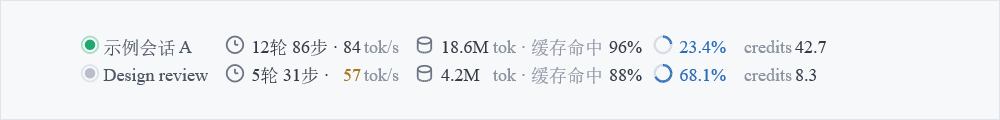
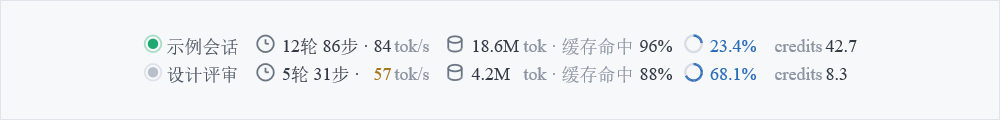
Limit bar titles to six characters

Changed region(s): [[0.062, 0.275, 0.868, 0.475], [0.062, 0.525, 0.868, 0.7]]

diff --git a/dcomp/App.cs b/dcomp/App.cs
@@ -703,6 +703,14 @@ static class App
         return F0(d);
     }
 
+    // 标题最多 6 个字符：超出时前 5 字加省略号，避免窄条压到状态栏右侧控件。
+    static string ShortTitle(string s)
+    {
+        if (string.IsNullOrEmpty(s)) return "";
+        if (s.Length <= 6) return s;
+        return s.Substring(0, 5) + "…";
+    }
+
     static Dictionary<string, string[]> BuildCells(Dictionary<string, object> s)
     {
         var d = new Dictionary<string, string[]>();
@@ -729,7 +737,7 @@ static class App
         }
 
         d["dot"] = new[] { "", HexStr(isBusy ? C_OK : C_IDLE) };
-        d["title"] = new[] { Convert.ToString(title) ?? "", HexStr(C_TITLE) };
+        d["title"] = new[] { ShortTitle(Convert.ToString(title) ?? ""), HexStr(C_TITLE) };
         d["clock"] = new[] { "", HexStr(C_ICON) };
         d["turns"] = new[] { (turns == null ? "—" : Convert.ToString(turns)) + "轮 " +
                              (steps == null ? "—" : Convert.ToString(steps)) + "步 ·", HexStr(C_FG) };

diff --git a/README.md b/README.md
@@ -72,7 +72,7 @@ qoder_monitor.py --emit ──每秒原子写──▶ bar_state.json
 
 - 一条无底板的透明窄条，最多两个会话行；每行：状态点、标题、轮数/步数、tok/s、总 tokens 与缓存命中、上下文环、credits。
 - 取最近 30 分钟内有写入的会话，按最后修改时间由新到旧最多显示两行；每行的数字是该会话自己的整场累计。
-- 状态点绿色表示会话忙或文件 25 秒内有写入，灰色为空闲；标题超过 150 DIP 截断，两行共用列宽。
+- 状态点绿色表示会话忙或文件 25 秒内有写入，灰色为空闲；标题最多 6 个字符，超出显示前 5 字加 `…`，两行共用列宽。
 - 左键按在字或图标上拖动，松手把位置写入 `pos.json`；右键菜单可退出、切换置顶、切换“只在 Qoder 前台时显示”；双击退出。
 - 前台跟随两道闸：前台进程名以 `qoder` 开头且不以 `ide.exe` 结尾，并且聊天端存在可见主窗口；任一不满足就隐去。退出 Qoder 只是隐藏，不结束采集。
 - 零会话或 `bar_state.json` 超过 15 秒未更新时整条隐去，有数据自动恢复。
